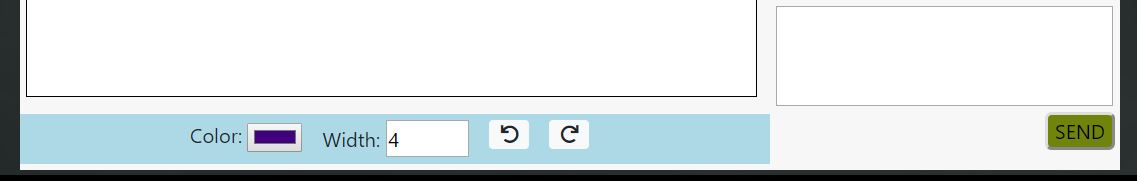
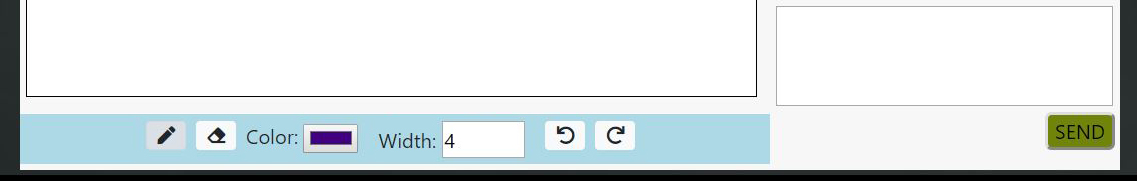
Updated help page to match new features

Changed region(s): [[0.1231, 0.663, 0.5849, 0.884]]

diff --git a/help.php b/help.php
@@ -55,8 +55,10 @@
 
 		<h2>What can I do during a classroom session?</h2>
 		<div class="pl-3 ml-3 border border-primary" style="max-width:88%">
-			<p>The classroom consists of a white board and a chat. Pick a color, pick a width, and draw! The toolbar also includes an undo and redo button.
-				To chat, enter your message and click Send. If you wish to browse the website during class, don't worry, just click where you want to
+			<p>The classroom consists of a whiteboard and a chat. You can toggle between a marker and an eraser. With the marker; pick a color, pick a width, and draw!
+				For the eraser, your minimum width will be 3, so watch out for it changing when you go back to your marker! And of course, the color doesn't affect anything
+				if the eraser is currently chosen. The toolbar also includes an undo and redo button, which will work for any drawing or erasing action that you have performed.
+				<br> <br> To chat, enter your message and click Send. If you wish to browse the website during class, don't worry, just click where you want to
 				navigate to at the top (navigation bar) and you'll be able to come back to class at any time. You can even log out without affecting the class!
 			</p>
 			<img src="images/help/whiteboard.jpg" alt="Signup Image" style="width:60%;" class="col-12"/>
@@ -101,7 +103,7 @@
 
 		<h2 style="clear:both">Contact Information</h2>
 		<div class="pl-3 ml-3 border border-primary" style="max-width:88%">
-			<p>If you need further assistance. Please contact <a href="mailto:more5580@mylaurier.ca">David</a> for quick response <a href="mailto:kexx7130@mylaurier.ca"><strike>Fafa</strike></a> (she's nicer. but she afks too much).</p>
+			<p>If you have any suggestions or concerns, please contact <a href="mailto:kexx7130@mylaurier.ca"><strike>Fafa</strike></a> <a href="mailto:more5580@mylaurier.ca">David</a> (She keeps crossing out her name; but she's nicer, so I would still contact her anyways. Just don't tell her I said this.)</p>
 			<p style="clear:both"></p>
 		</div>
 
